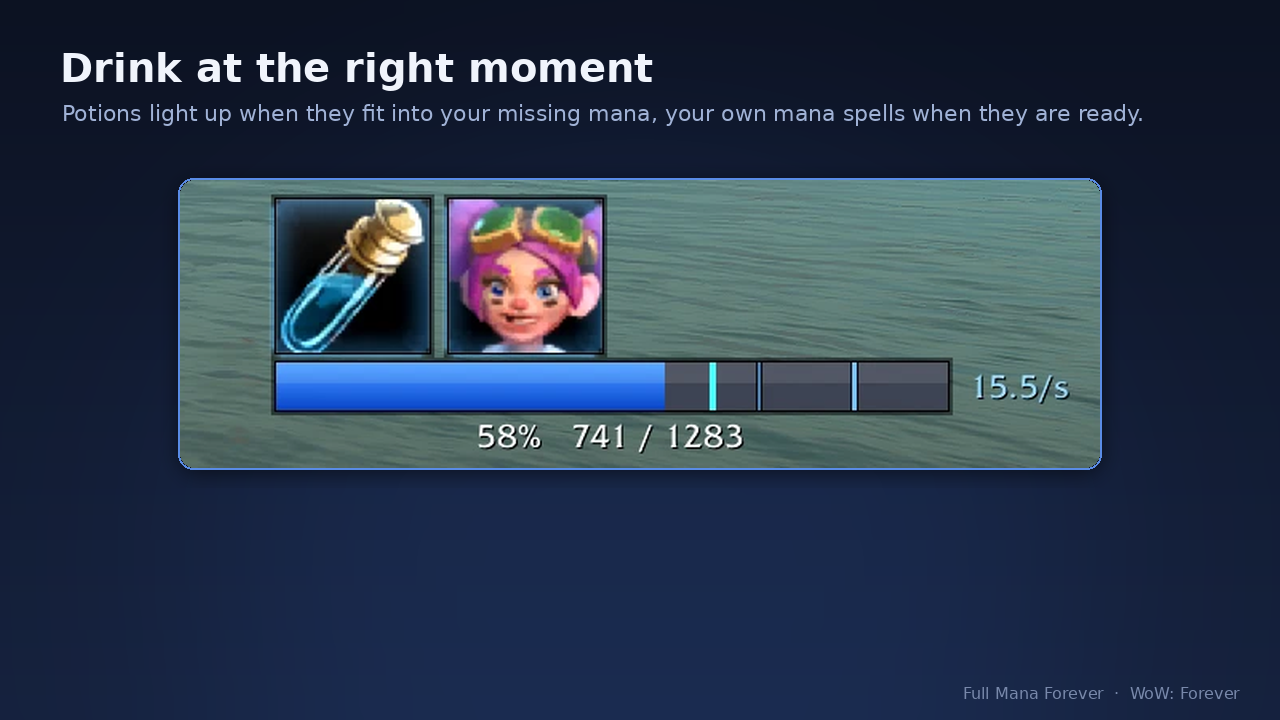
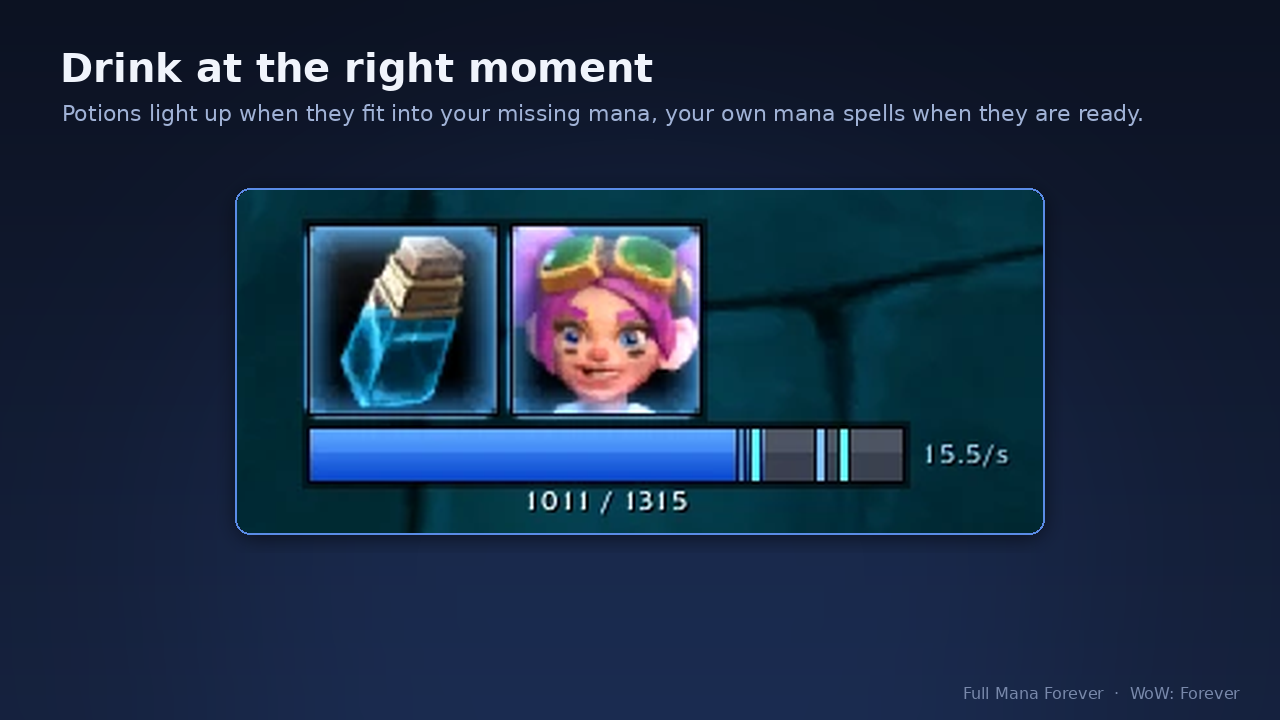
Gallery 0.8.9 from new shots (whole seconds, red regen, see it coming); GIFs in the description

diff --git a/tools/gallery.py b/tools/gallery.py
@@ -209,3 +209,57 @@ if __name__ == "__main__":
              "Every part has its own switch and text size. Hover any option for a short explanation.",
              [(crop("images/187.webp", (520, 242, 960, 838), 0.8), "Display and look"),
               (crop("images/187.webp", (960, 242, 1400, 838), 0.8), "Visibility, drinking, own spells")], top=145)
+    # ---- 0.8.9 shots (16 Oct 2026): icon size 72, bar 20, text 100 %, whole seconds, stone floor;
+    # the Resurrection Sickness shot was taken in a forest (the addon sits 20 px lower there)
+    R9 = (825, 640, 1135, 772)        # row layout: seconds, icons, bar, regen, mana numbers
+    R9F = (825, 660, 1135, 792)       # the same in the forest shot
+    BAR9 = (825, 725, 1135, 772)      # only the bar, its texts and the mana numbers
+    BAR9F = (825, 745, 1135, 792)
+    COL9 = (1035, 425, 1185, 708)     # icons in a column
+    if only("v9-01"):
+        make("01_hero.png", "Drink at the right moment",
+             "Potions light up when they fit into your missing mana, your own mana spells when they are ready.",
+             [(crop("images/341.webp", R9, 2.6), "")], top=190)
+    if only("v9-02"):
+        make("02_right_potion.png", "The right potion for your missing mana",
+             "Several potions in your bags: the strongest one that will not overflow lights up.",
+             [(crop("images/339.webp", R9, 1.75), "78 % mana:\nsmall potion"),
+              (crop("images/340.webp", R9, 1.75), "64 % mana:\nstronger potion")], top=165, stack=True)
+    if only("v9-03r"):
+        make("03_five_second_rule_row.png", "Five-second rule and live mana regen",
+             "After a spell: gold strip and seconds. The regen running right now, also in combat.",
+             [(crop("images/338.webp", R9, 1.75), "Casting:\n4 s left, regen 0.0/s"),
+              (crop("images/339.webp", R9, 1.75), "Rule over:\nregen 15.5/s")], top=165, stack=True)
+    if only("v9-03c"):
+        make("03_five_second_rule.png", "Icons in a column",
+             "The same in a column: seconds above the bar, mana and regen below it.",
+             [(crop("images/355.webp", COL9, 1.6), "Casting: 4 s, regen 0.0/s"),
+              (crop("images/354.webp", COL9, 1.6), "Rule over: regen 15.5/s")], top=150)
+    if only("v9-10"):
+        make("10_regen_colors.png", "Your regen at a glance",
+             "Blue: normal. Green: above normal (drinking, Spirit Tap, ...). Red: Resurrection Sickness.",
+             [(crop("images/346.webp", BAR9, 1.9), "Normal:\n15.5/s", (153, 217, 255)),
+              (crop("images/345.webp", BAR9, 1.9), "Drinking:\n23.9/s", (115, 255, 115)),
+              (crop("images/361.webp", BAR9F, 1.9), "After death:\n4.0/s", (255, 110, 100))],
+             top=175, stack=True)
+    if only("v9-14"):
+        make("14_see_it_coming.png", "See it coming",
+             "Icons show up grey in the last seconds of their cooldown, counting down like your action bar.",
+             [(crop("images/344.webp", R9, 1.6), "Potion ready in 21 s"),
+              (crop("images/343.webp", R9, 1.6), "Spells too: Eureka! in 11 s")], top=200)
+    if only("v9-09"):
+        make("09_own_spells.png", "Your own mana spells too",
+             "Eureka!, Evocation, Innervate, Mana Tide, Inner Focus, Life Tap: lit when ready and your mana is low.",
+             [(crop("images/350.webp", R9, 2.6), "")], top=190)
+    if only("v9-08"):
+        make("08_unlocked.png", "Easy to place",
+             "Unlock the frame: everything that is switched on shows up, grey where you carry nothing.",
+             [(crop("images/349.webp", (805, 630, 1395, 775), 1.8), "")], top=200)
+    if only("v9-11"):
+        make("11_move_texts.png", "Move texts anywhere",
+             "Move texts freely: drag the mana numbers, the seconds and the regen, each on its own.",
+             [(crop("images/348.webp", (830, 495, 1100, 760), 2.0), "")], top=150)
+    if only("v9-07"):
+        make("07_item_list.png", "Items and spells",
+             "Every supported item and your class's mana spells: switch each on or off, see your level and what you carry.",
+             [(crop("images/356.webp", (818, 88, 1440, 690), 0.9), "")], top=140)

diff --git a/CURSEFORGE.md b/CURSEFORGE.md
@@ -24,6 +24,8 @@ A mana potion, rune, mana gem or your own mana spell (Evocation, Innervate, Mana
 
 ![Several potions in your bags: the strongest one that will not overflow lights up](https://raw.githubusercontent.com/KesaObscura/FullManaForever/main/docs/images/right-mana-potion-for-missing-mana.png)
 
+![See it coming: the potion shows up grey with a countdown, lights up, you drink](https://raw.githubusercontent.com/KesaObscura/FullManaForever/main/docs/images/see-it-coming-mana-potion.gif)
+
 ### Mana bar, five-second rule and live regen
 
 - **Mana bar with markers.** A compact mana bar with the current value and a marker for every potion step. Icons in a row or in a column, bar under, above, left or right; bar color, thickness and length (auto: room for the groups you switched on), icon size and spacing are adjustable. Nothing is shown while you are dead or a ghost.
@@ -32,7 +34,9 @@ A mana potion, rune, mana gem or your own mana spell (Evocation, Innervate, Mana
 - **Mana text** like the game's status text: numeric value, percentage or both, with its own switch and text size.
 - **Your layout.** The mana numbers, the five-second seconds and the regen also show with the mana bar switched off, and *Move texts freely* lets you drag each of them anywhere.
 
-![Regen colours: normal, above normal while drinking, five-second rule](https://raw.githubusercontent.com/KesaObscura/FullManaForever/main/docs/images/live-mana-regen-five-second-rule.png)
+![Five-second rule: a spell, the gold strip counts 5 to 1 at 0.0/s, then the regen runs again](https://raw.githubusercontent.com/KesaObscura/FullManaForever/main/docs/images/five-second-rule-live-regen.gif)
+
+![Regen colours: blue normal, green while drinking, red under Resurrection Sickness](https://raw.githubusercontent.com/KesaObscura/FullManaForever/main/docs/images/live-mana-regen-five-second-rule.png)
 
 ### Comfort
 

diff --git a/docs/notes.md b/docs/notes.md
@@ -99,6 +99,14 @@ decisions. Read the part you need; `CLAUDE.md` holds the short version.
   uploads); every image on CurseForge is current as of 0.8.2.
 - 0.8.7 (14 Oct): 06_settings (entry 06v4) and 07_item_list (entry 07v2, "Items and spells" with
   the own spells) re-made from the owner's English screenshots.
+- 0.8.9 gallery (16 Oct, owner's shots of 0.8.10 at icon size 72, bar 20, whole seconds; entries
+  v9-* in tools/gallery.py): 01, 02, 03 row and column, 07, 08, 09, 10 (with red), 11 re-made,
+  14_see_it_coming new. GIFs in docs/images (see-it-coming-mana-potion.gif,
+  five-second-rule-live-regen.gif, from two short screen recordings, cropped to the addon) are
+  linked in the description. Order on CurseForge from 0.8.9: hero, see it coming, regen at a
+  glance, right potion, rule row, rule column, own spells, items and spells, easy to place, move
+  texts, just the regen, mana text, profiles and hold, settings. Featured: hero, see it coming,
+  regen at a glance, right potion, own spells.
 - The finished gallery images (as on CurseForge) are kept in `docs/gallery/`. The in-game source
   screenshots are NOT in the repo (they show character names and chat): the owner keeps them;
   `tools/gallery.py` expects them as `<workdir>/images/<n>.webp`, numbers from the old session.
